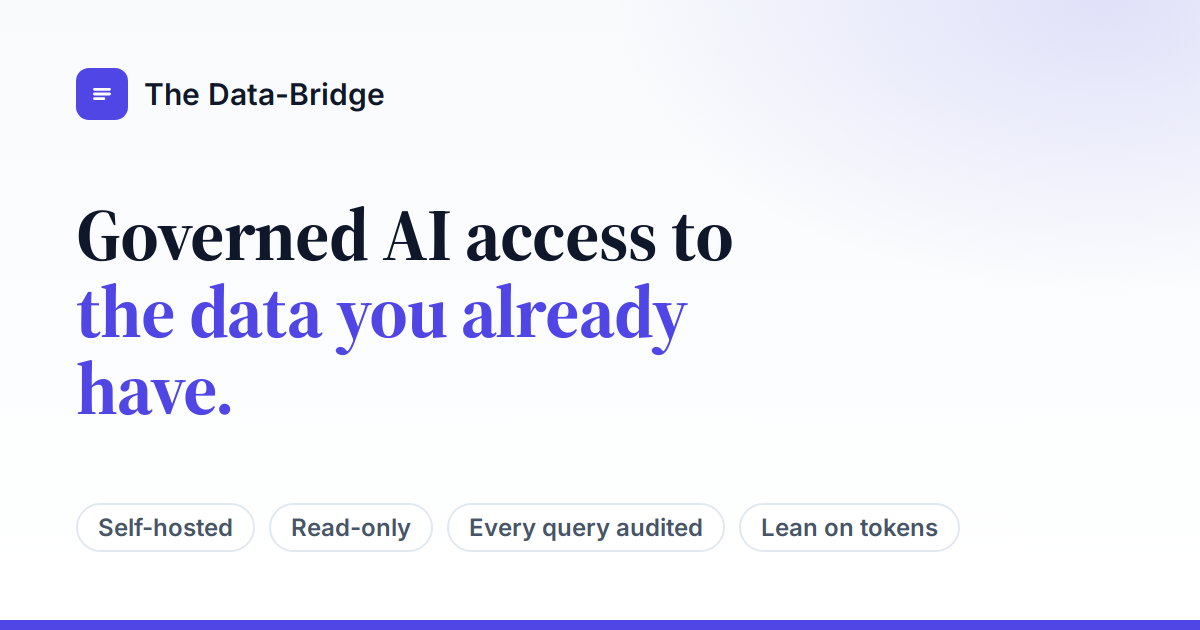
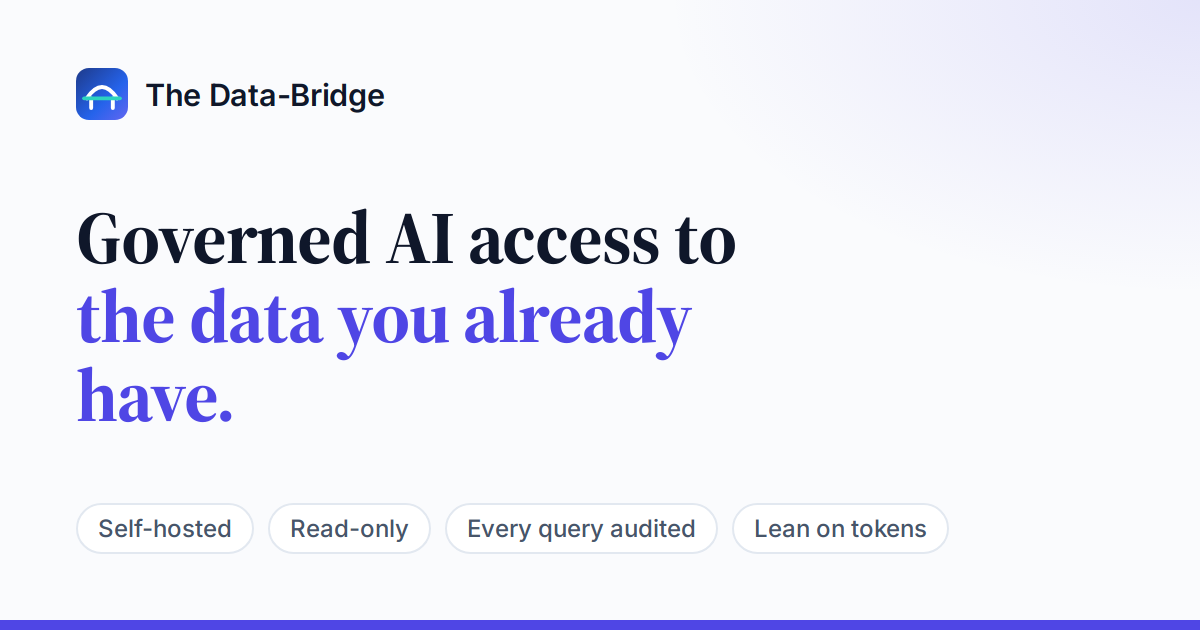
Social card: the new arch-bridge mark; source kept in brand/og.html

diff --git a/brand/og.html b/brand/og.html
@@ -1,0 +1,38 @@
+<!doctype html>
+<!-- Source of og.png (the 1200x630 social card) for tdb.asvanlabs.com and the docs.
+     Render at 1200x630, device scale 1, then copy the PNG to tdb-landing/og.png and
+     tdb-docs/docs/assets/og.png (the two are identical). Recipe: tdb-landing/README.md. -->
+<html lang="en">
+<head>
+<meta charset="utf-8">
+<link href="https://fonts.googleapis.com/css2?family=Inter:wght@500;600&family=Source+Serif+4:opsz,wght@8..60,700&display=swap" rel="stylesheet">
+<style>
+  html, body { margin: 0; }
+  body {
+    width: 1200px; height: 630px; overflow: hidden; position: relative; box-sizing: border-box;
+    padding: 68px 76px 0;
+    background: radial-gradient(760px 420px at 100% 0%, rgba(79,70,229,.13), transparent 70%), #FAFBFD;
+    color: #0F172A; font-family: Inter, system-ui, sans-serif;
+  }
+  .brand { display: flex; align-items: center; gap: 17px; font-size: 30.6px; font-weight: 600; letter-spacing: -.01em; }
+  .brand svg { width: 52px; height: 52px; display: block; }
+  h1 {
+    margin: 78px 0 0; font-family: "Source Serif 4", Georgia, serif; font-weight: 700;
+    font-size: 74.6px; line-height: 1.06; letter-spacing: -.015em; max-width: 700px;
+  }
+  h1 span { color: #4F46E5; }
+  .chips { position: absolute; left: 76px; top: 503px; display: flex; gap: 14px; }
+  .chips span { font-size: 24px; font-weight: 500; color: #475569; border: 2px solid #E2E8F0; border-radius: 999px; padding: 9px 20px; background: #fff; }
+  .bar { position: absolute; left: 0; right: 0; bottom: 0; height: 10px; background: #4F46E5; }
+</style>
+</head>
+<body>
+  <div class="brand">
+    <svg viewBox="0 0 48 48" aria-hidden="true"><defs><linearGradient id="t" x1="0" y1="0" x2="1" y2="1"><stop offset="0" stop-color="#1E3A8A"/><stop offset=".6" stop-color="#2563EB"/><stop offset="1" stop-color="#6366F1"/></linearGradient></defs><rect width="48" height="48" rx="12" fill="url(#t)"/><g fill="none" stroke-width="3.6" stroke-linecap="round" stroke-linejoin="round"><path d="M10 28Q24 7 38 28" stroke="#FFFFFF"/><path d="M14 28v9M34 28v9" stroke="#FFFFFF"/><path d="M7.5 28h33" stroke="#2DD4BF"/></g></svg>
+    The Data-Bridge
+  </div>
+  <h1>Governed AI access to <span>the data you already have.</span></h1>
+  <div class="chips"><span>Self-hosted</span><span>Read-only</span><span>Every query audited</span><span>Lean on tokens</span></div>
+  <div class="bar"></div>
+</body>
+</html>

diff --git a/README.md b/README.md
@@ -9,6 +9,6 @@ via GitHub Pages. Static HTML (no build step).
 - `404.html`, `robots.txt`, `sitemap.xml` — error page and crawler files (update `sitemap.xml`'s `lastmod` when the page changes)
 - **Mark:** the arch-bridge tile (same family as the Asvan Labs `<A>`), inline in `index.html` and `404.html` and as the favicon data URI; the file version is `asvanlabs-site/tdb-mark.svg` and `tdb-docs/docs/assets/logo.svg`. Change all of them together.
 - `.well-known/security.txt` — security contact (RFC 9116), points to `security@tdb.asvanlabs.com` and the docs' Security & updates page; **renew `Expires` before 2027-11-13**
-- `og.png` — the social card; `media/` — the 60-second tour video (`tour.webm`, `tour.mp4`), recorded on the community 0.13.0 image
+- `og.png` — the social card (1200×630; the docs carry the same file as `docs/assets/og.png`), rendered from `brand/og.html` with Playwright at 1200×630, scale 1 (recipe: `tdb-internal/docs/decisions/handover-2026-11-11.md`); edit the HTML, never the PNG; `media/` — the 60-second tour video (`tour.webm`, `tour.mp4`), recorded on the community 0.13.0 image
 
 Edit `index.html` and push to `main`; GitHub Pages redeploys automatically.
